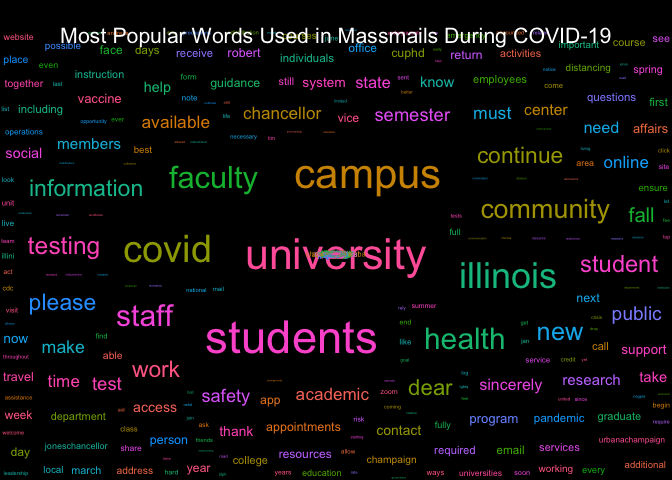
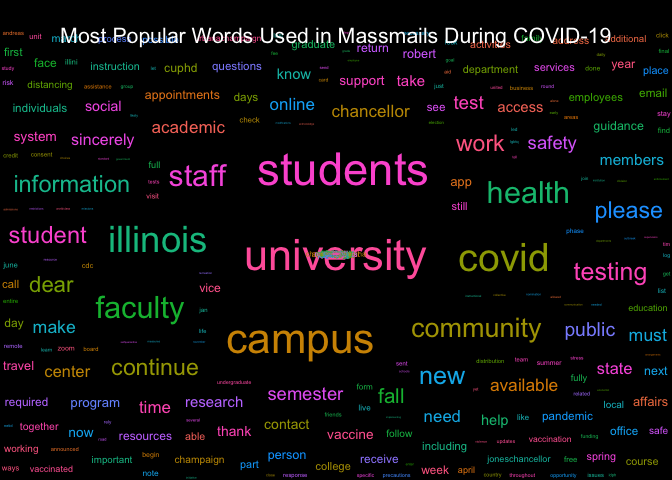
Re-build README.Rmd and Graphs

diff --git a/README.md b/README.md
@@ -17,7 +17,7 @@ The archive may be viewed here:
 
 <https://massmail.illinois.edu/massmailArchive>
 
-Data has **1369** observations and **7** variables:
+Data has **1372** observations and **7** variables:
 
   - `datetime`: Date and time when the email was sent in the form of
     `YYYY-MM-DD HMS` with either CDT or CST.
@@ -210,16 +210,16 @@ head(most_popular_words, 10) %>%
 
 | word        | freq |
 | :---------- | ---: |
-| university  | 1003 |
-| students    |  997 |
-| campus      |  869 |
-| covid       |  656 |
-| illinois    |  641 |
-| faculty     |  550 |
-| community   |  543 |
-| health      |  495 |
-| staff       |  439 |
-| information |  426 |
+| university  | 1018 |
+| students    | 1000 |
+| campus      |  885 |
+| covid       |  685 |
+| illinois    |  656 |
+| faculty     |  552 |
+| community   |  551 |
+| health      |  512 |
+| staff       |  442 |
+| information |  440 |
 
 #### Wordcloud
 
